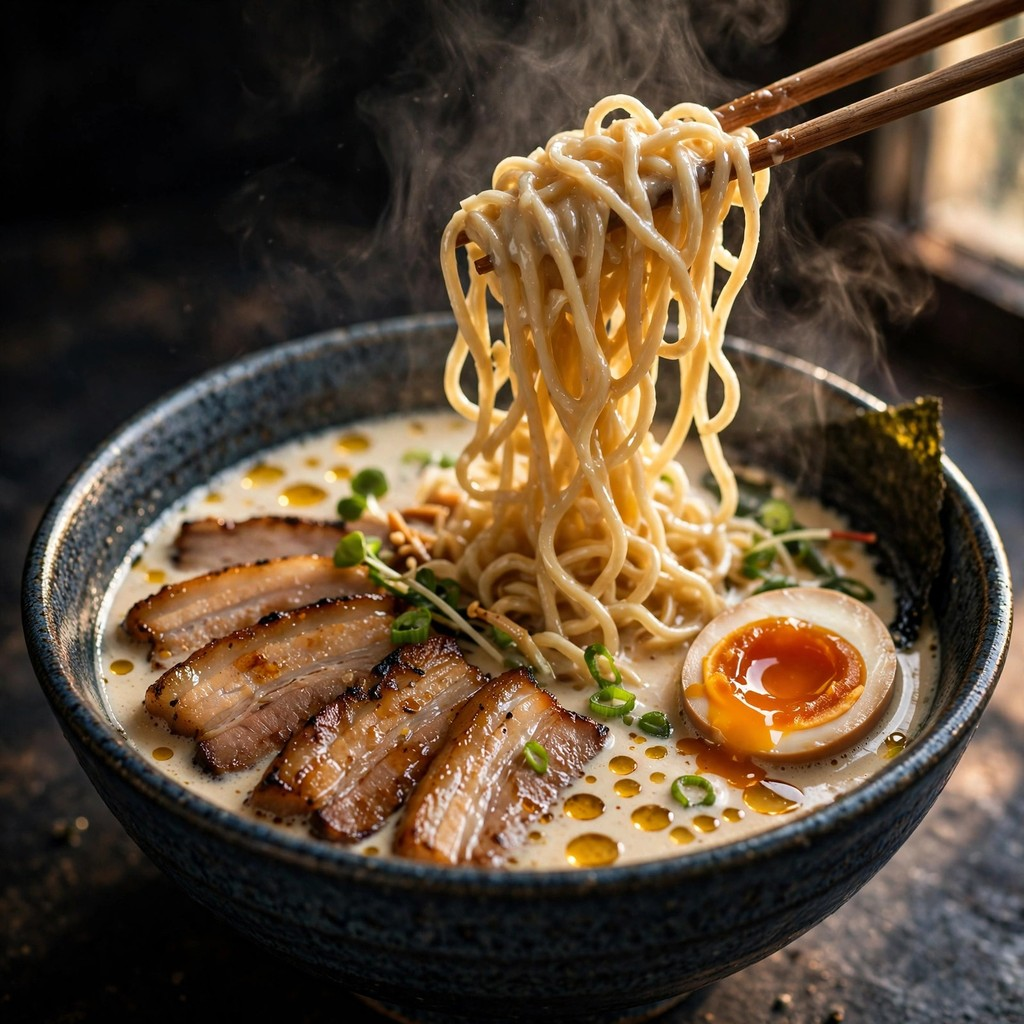
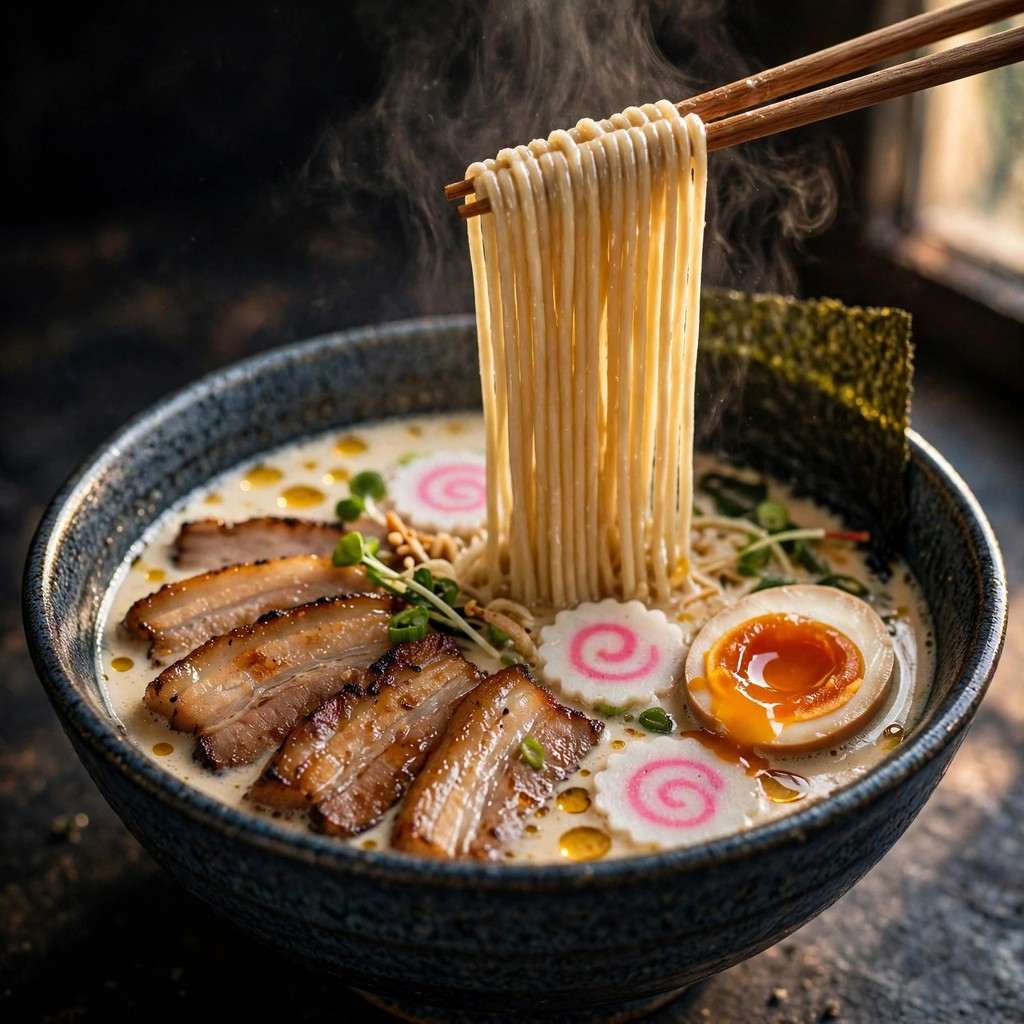
food-picture-01 entry v3: straight parallel noodle pull, narutomaki + nori

diff --git a/main.ts b/main.ts
@@ -1,7 +1,7 @@
-// food-picture-01 entry (v2, "Midnight Tonkotsu" re-shot): copies the food
-// photograph (entry.png) into the output directory. Node standard library
-// only. The v2 photograph is a closer, glossier hero shot of the same
-// tonkotsu ramen: taller noodle pull, runnier jammy yolk, more steam.
+// food-picture-01 entry (v3, "Midnight Tonkotsu" straightened): copies the
+// food photograph (entry.png) into the output directory. Node standard
+// library only. The v3 photograph keeps the v2 hero shot's gloss and light
+// but re-shoots the noodle pull and toppings to order.
 import { copyFileSync, existsSync, mkdirSync } from "node:fs";
 import { dirname, resolve } from "node:path";
 import { fileURLToPath } from "node:url";
@@ -28,6 +28,8 @@ if (!existsSync(source)) {
 }
 
 // Copy the photograph byte-for-byte; the output must be named entry.png
-// regardless of the source file's format (the v2 shot is JPEG bytes).
+// regardless of the source file's format (the v3 shot is JPEG bytes). In
+// v3 the lifted noodles hang in straight, parallel strands, and the bowl
+// gains narutomaki slices and a standing nori sheet.
 mkdirSync(outDir, { recursive: true });
 copyFileSync(source, resolve(outDir, "entry.png"));
